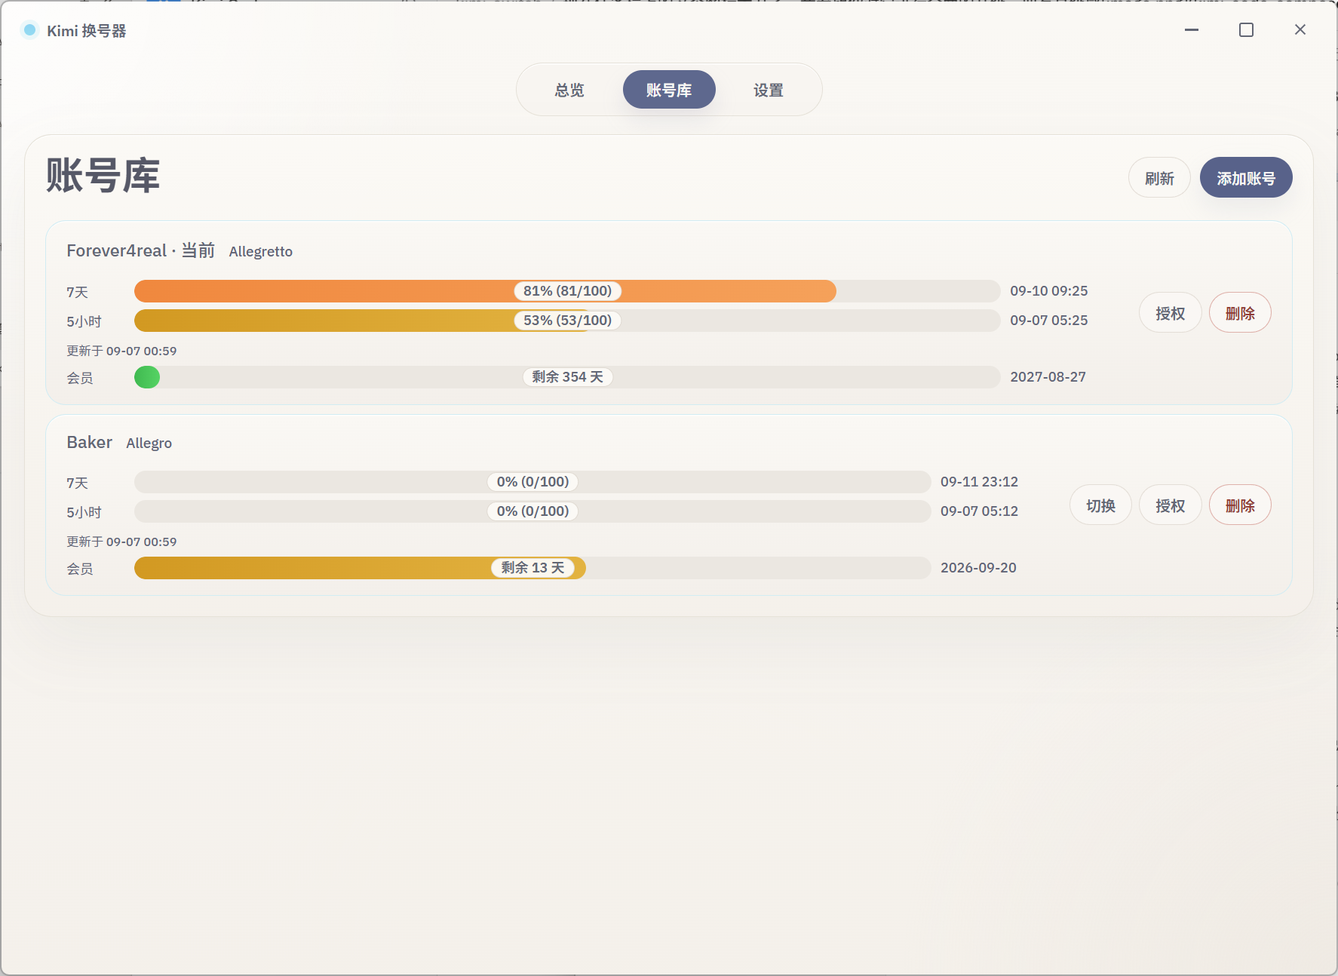
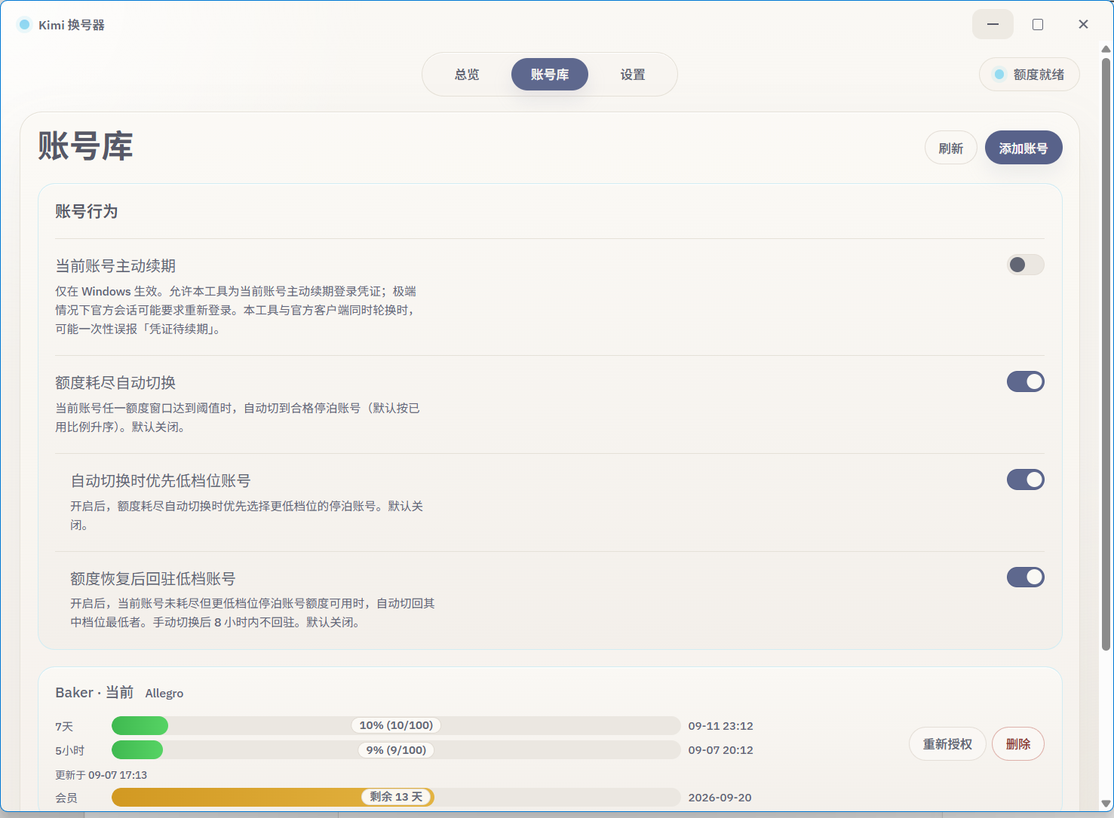
Move account-behavior switches from settings page to library page panel

diff --git a/src-ui/index.html b/src-ui/index.html
@@ -107,6 +107,45 @@
                 </button>
               </div>
             </div>
+            <section class="behavior-panel" aria-labelledby="behavior-panel-title">
+              <h3 class="behavior-panel-title" id="behavior-panel-title">账号行为</h3>
+              <div class="settings-row settings-row--switch">
+                <div class="settings-copy">
+                  <span id="renewal-toggle-label">当前账号主动续期</span>
+                  <p class="settings-note" id="renewal-toggle-note">仅在 Windows 生效。允许本工具为当前账号主动续期登录凭证；极端情况下官方会话可能要求重新登录。本工具与官方客户端同时轮换时，可能一次性误报「凭证待续期」。</p>
+                </div>
+                <button id="renewal-toggle" class="switch" type="button" role="switch" aria-checked="false" aria-labelledby="renewal-toggle-label" aria-describedby="renewal-toggle-note">
+                  <span class="switch-thumb" aria-hidden="true"></span>
+                </button>
+              </div>
+              <div class="settings-row settings-row--switch">
+                <div class="settings-copy">
+                  <span id="auto-swap-toggle-label">额度耗尽自动切换</span>
+                  <p class="settings-note" id="auto-swap-toggle-note">当前账号任一额度窗口达到阈值时，自动切到合格停泊账号（默认按已用比例升序）。默认关闭。</p>
+                </div>
+                <button id="auto-swap-toggle" class="switch" type="button" role="switch" aria-checked="false" aria-labelledby="auto-swap-toggle-label" aria-describedby="auto-swap-toggle-note">
+                  <span class="switch-thumb" aria-hidden="true"></span>
+                </button>
+              </div>
+              <div class="settings-row settings-row--switch settings-row--nested">
+                <div class="settings-copy">
+                  <span id="auto-swap-prefer-lower-tier-toggle-label">自动切换时优先低档位账号</span>
+                  <p class="settings-note" id="auto-swap-prefer-lower-tier-toggle-note">开启后，额度耗尽自动切换时优先选择更低档位的停泊账号。默认关闭。</p>
+                </div>
+                <button id="auto-swap-prefer-lower-tier-toggle" class="switch" type="button" role="switch" aria-checked="false" disabled aria-labelledby="auto-swap-prefer-lower-tier-toggle-label" aria-describedby="auto-swap-prefer-lower-tier-toggle-note">
+                  <span class="switch-thumb" aria-hidden="true"></span>
+                </button>
+              </div>
+              <div class="settings-row settings-row--switch settings-row--nested">
+                <div class="settings-copy">
+                  <span id="auto-swap-resident-lower-tier-toggle-label">额度恢复后回驻低档账号</span>
+                  <p class="settings-note" id="auto-swap-resident-lower-tier-toggle-note">开启后，当前账号未耗尽但更低档位停泊账号额度可用时，自动切回其中档位最低者。手动切换后 8 小时内不回驻。默认关闭。</p>
+                </div>
+                <button id="auto-swap-resident-lower-tier-toggle" class="switch" type="button" role="switch" aria-checked="false" disabled aria-labelledby="auto-swap-resident-lower-tier-toggle-label" aria-describedby="auto-swap-resident-lower-tier-toggle-note">
+                  <span class="switch-thumb" aria-hidden="true"></span>
+                </button>
+              </div>
+            </section>
             <div id="accounts-empty" class="empty-state hidden">暂无账号。用「添加账号」浏览器授权，或先在 Kimi Code 登录后点「导入当前账号」。</div>
             <div id="library-action-error" class="action-retry hidden">
               <p id="library-action-error-text"></p>
@@ -131,42 +170,6 @@
                   深色
                 </button>
               </div>
-            </div>
-            <div class="settings-row settings-row--switch">
-              <div class="settings-copy">
-                <span id="renewal-toggle-label">当前账号主动续期</span>
-                <p class="settings-note" id="renewal-toggle-note">仅在 Windows 生效。允许本工具为当前账号主动续期登录凭证；极端情况下官方会话可能要求重新登录。本工具与官方客户端同时轮换时，可能一次性误报「凭证待续期」。</p>
-              </div>
-              <button id="renewal-toggle" class="switch" type="button" role="switch" aria-checked="false" aria-labelledby="renewal-toggle-label" aria-describedby="renewal-toggle-note">
-                <span class="switch-thumb" aria-hidden="true"></span>
-              </button>
-            </div>
-            <div class="settings-row settings-row--switch">
-              <div class="settings-copy">
-                <span id="auto-swap-toggle-label">额度耗尽自动切换</span>
-                <p class="settings-note" id="auto-swap-toggle-note">当前账号任一额度窗口达到阈值时，自动切到合格停泊账号（默认按已用比例升序）。默认关闭。</p>
-              </div>
-              <button id="auto-swap-toggle" class="switch" type="button" role="switch" aria-checked="false" aria-labelledby="auto-swap-toggle-label" aria-describedby="auto-swap-toggle-note">
-                <span class="switch-thumb" aria-hidden="true"></span>
-              </button>
-            </div>
-            <div class="settings-row settings-row--switch settings-row--nested">
-              <div class="settings-copy">
-                <span id="auto-swap-prefer-lower-tier-toggle-label">自动切换时优先低档位账号</span>
-                <p class="settings-note" id="auto-swap-prefer-lower-tier-toggle-note">开启后，额度耗尽自动切换时优先选择更低档位的停泊账号。默认关闭。</p>
-              </div>
-              <button id="auto-swap-prefer-lower-tier-toggle" class="switch" type="button" role="switch" aria-checked="false" disabled aria-labelledby="auto-swap-prefer-lower-tier-toggle-label" aria-describedby="auto-swap-prefer-lower-tier-toggle-note">
-                <span class="switch-thumb" aria-hidden="true"></span>
-              </button>
-            </div>
-            <div class="settings-row settings-row--switch settings-row--nested">
-              <div class="settings-copy">
-                <span id="auto-swap-resident-lower-tier-toggle-label">额度恢复后回驻低档账号</span>
-                <p class="settings-note" id="auto-swap-resident-lower-tier-toggle-note">开启后，当前账号未耗尽但更低档位停泊账号额度可用时，自动切回其中档位最低者。手动切换后 8 小时内不回驻。默认关闭。</p>
-              </div>
-              <button id="auto-swap-resident-lower-tier-toggle" class="switch" type="button" role="switch" aria-checked="false" disabled aria-labelledby="auto-swap-resident-lower-tier-toggle-label" aria-describedby="auto-swap-resident-lower-tier-toggle-note">
-                <span class="switch-thumb" aria-hidden="true"></span>
-              </button>
             </div>
           </div>
         </section>

diff --git a/src-ui/auto-swap.test.ts b/src-ui/auto-swap.test.ts
@@ -15,7 +15,10 @@ const html = readFileSync(
   join(dirname(fileURLToPath(import.meta.url)), "index.html"),
   "utf8",
 );
-const settingsPage = html.slice(html.indexOf('id="page-settings"'));
+const libraryPage = html.slice(
+  html.indexOf('id="page-library"'),
+  html.indexOf('id="page-settings"'),
+);
 
 describe("autoSwapSwitchView", () => {
   it("开态映射 checked 与开启 toast", () => {
@@ -73,20 +76,20 @@ describe("silentQuotaMessage", () => {
   });
 });
 
-describe("设置页「额度耗尽自动切换」开关（issue #68）", () => {
-  it("开关出现在设置页且默认关", () => {
-    expect(settingsPage).toContain('id="auto-swap-toggle"');
-    expect(settingsPage).toMatch(/id="auto-swap-toggle"[^>]*role="switch"/);
+describe("账号库页「额度耗尽自动切换」开关（issue #68）", () => {
+  it("开关出现在账号库页且默认关", () => {
+    expect(libraryPage).toContain('id="auto-swap-toggle"');
+    expect(libraryPage).toMatch(/id="auto-swap-toggle"[^>]*role="switch"/);
     // 静态首帧即关态；权威值由快照涂刷覆盖。
-    expect(settingsPage).toMatch(/id="auto-swap-toggle"[^>]*aria-checked="false"/);
+    expect(libraryPage).toMatch(/id="auto-swap-toggle"[^>]*aria-checked="false"/);
   });
 
   it("开关旁带阈值切换说明，不写 daemon / 403", () => {
-    expect(settingsPage).toContain("额度耗尽自动切换");
-    expect(settingsPage).toContain("当前账号任一额度窗口达到阈值时，自动切到合格停泊账号（默认按已用比例升序）。默认关闭。");
-    expect(settingsPage).not.toContain("剩余最多");
-    expect(settingsPage).not.toContain("daemon");
-    expect(settingsPage).not.toContain("403");
+    expect(libraryPage).toContain("额度耗尽自动切换");
+    expect(libraryPage).toContain("当前账号任一额度窗口达到阈值时，自动切到合格停泊账号（默认按已用比例升序）。默认关闭。");
+    expect(libraryPage).not.toContain("剩余最多");
+    expect(libraryPage).not.toContain("daemon");
+    expect(libraryPage).not.toContain("403");
   });
 });
 
@@ -118,27 +121,27 @@ describe("autoSwapPreferLowerTierSwitchView", () => {
   });
 });
 
-describe("设置页「自动切换时优先低档位账号」子开关（issue #71）", () => {
+describe("账号库页「自动切换时优先低档位账号」子开关（issue #71）", () => {
   it("紧挨总开关下方，role=switch，静态关且 disabled", () => {
-    expect(settingsPage).toContain('id="auto-swap-prefer-lower-tier-toggle"');
-    expect(settingsPage).toMatch(
+    expect(libraryPage).toContain('id="auto-swap-prefer-lower-tier-toggle"');
+    expect(libraryPage).toMatch(
       /id="auto-swap-prefer-lower-tier-toggle"[^>]*role="switch"/,
     );
-    expect(settingsPage).toMatch(
+    expect(libraryPage).toMatch(
       /id="auto-swap-prefer-lower-tier-toggle"[^>]*aria-checked="false"/,
     );
-    expect(settingsPage).toMatch(
+    expect(libraryPage).toMatch(
       /id="auto-swap-prefer-lower-tier-toggle"[^>]*\sdisabled/,
     );
-    const master = settingsPage.indexOf('id="auto-swap-toggle"');
-    const sub = settingsPage.indexOf('id="auto-swap-prefer-lower-tier-toggle"');
+    const master = libraryPage.indexOf('id="auto-swap-toggle"');
+    const sub = libraryPage.indexOf('id="auto-swap-prefer-lower-tier-toggle"');
     expect(sub).toBeGreaterThan(master);
   });
 
   it("文案为优先低档位，不写套餐或 plan", () => {
-    expect(settingsPage).toContain("自动切换时优先低档位账号");
-    const start = settingsPage.indexOf("auto-swap-prefer-lower-tier");
-    const snippet = settingsPage.slice(start, start + 900);
+    expect(libraryPage).toContain("自动切换时优先低档位账号");
+    const start = libraryPage.indexOf("auto-swap-prefer-lower-tier");
+    const snippet = libraryPage.slice(start, start + 900);
     expect(snippet).not.toContain("套餐");
     expect(snippet).not.toMatch(/\bplan\b/i);
   });
@@ -172,28 +175,28 @@ describe("autoSwapResidentLowerTierSwitchView", () => {
   });
 });
 
-describe("设置页「额度恢复后回驻低档账号」子开关（issue #95）", () => {
+describe("账号库页「额度恢复后回驻低档账号」子开关（issue #95）", () => {
   it("位于优先低档位开关之后，role=switch，静态关且 disabled", () => {
-    expect(settingsPage).toContain('id="auto-swap-resident-lower-tier-toggle"');
-    expect(settingsPage).toMatch(
+    expect(libraryPage).toContain('id="auto-swap-resident-lower-tier-toggle"');
+    expect(libraryPage).toMatch(
       /id="auto-swap-resident-lower-tier-toggle"[^>]*role="switch"/,
     );
-    expect(settingsPage).toMatch(
+    expect(libraryPage).toMatch(
       /id="auto-swap-resident-lower-tier-toggle"[^>]*aria-checked="false"/,
     );
-    expect(settingsPage).toMatch(
+    expect(libraryPage).toMatch(
       /id="auto-swap-resident-lower-tier-toggle"[^>]*\sdisabled/,
     );
-    const prefer = settingsPage.indexOf('id="auto-swap-prefer-lower-tier-toggle"');
-    const resident = settingsPage.indexOf('id="auto-swap-resident-lower-tier-toggle"');
+    const prefer = libraryPage.indexOf('id="auto-swap-prefer-lower-tier-toggle"');
+    const resident = libraryPage.indexOf('id="auto-swap-resident-lower-tier-toggle"');
     expect(resident).toBeGreaterThan(prefer);
   });
 
   it("文案为回驻低档账号并说明保持期，不写套餐或 plan", () => {
-    expect(settingsPage).toContain("额度恢复后回驻低档账号");
-    expect(settingsPage).toContain("手动切换后 8 小时内不回驻");
-    const start = settingsPage.indexOf("auto-swap-resident-lower-tier");
-    const snippet = settingsPage.slice(start, start + 900);
+    expect(libraryPage).toContain("额度恢复后回驻低档账号");
+    expect(libraryPage).toContain("手动切换后 8 小时内不回驻");
+    const start = libraryPage.indexOf("auto-swap-resident-lower-tier");
+    const snippet = libraryPage.slice(start, start + 900);
     expect(snippet).not.toContain("套餐");
     expect(snippet).not.toMatch(/\bplan\b/i);
   });

diff --git a/src-ui/renewal.test.ts b/src-ui/renewal.test.ts
@@ -10,7 +10,10 @@ const html = readFileSync(
   join(dirname(fileURLToPath(import.meta.url)), "index.html"),
   "utf8",
 );
-const settingsPage = html.slice(html.indexOf('id="page-settings"'));
+const libraryPage = html.slice(
+  html.indexOf('id="page-library"'),
+  html.indexOf('id="page-settings"'),
+);
 
 describe("renewalSwitchView", () => {
   it("开态映射 checked 与开启 toast", () => {
@@ -28,17 +31,17 @@ describe("renewalSwitchView", () => {
   });
 });
 
-describe("设置页「当前账号主动续期」开关（issue #42）", () => {
-  it("开关出现在设置页且默认关", () => {
-    expect(settingsPage).toContain('id="renewal-toggle"');
-    expect(settingsPage).toMatch(/role="switch"/);
+describe("账号库页「当前账号主动续期」开关（issue #42）", () => {
+  it("开关出现在账号库页且默认关", () => {
+    expect(libraryPage).toContain('id="renewal-toggle"');
+    expect(libraryPage).toMatch(/role="switch"/);
     // 静态首帧即关态；权威值由快照涂刷覆盖。
-    expect(settingsPage).toMatch(/id="renewal-toggle"[^>]*aria-checked="false"/);
+    expect(libraryPage).toMatch(/id="renewal-toggle"[^>]*aria-checked="false"/);
   });
 
   it("开关旁带 ADR 0003 要求的风险说明", () => {
-    expect(settingsPage).toContain("当前账号主动续期");
-    const note = settingsPage.match(
+    expect(libraryPage).toContain("当前账号主动续期");
+    const note = libraryPage.match(
       /id="renewal-toggle-note"[^>]*>([^<]*)</,
     )?.[1];
     expect(note).toContain("仅在 Windows 生效");

diff --git a/src-ui/styles.css b/src-ui/styles.css
@@ -616,6 +616,24 @@ p {
   gap: 8px;
 }
 
+/* 账号行为面板：与账号卡同级的内嵌分区（细边 + 内高光，不投外阴影，避免卡中卡） */
+.behavior-panel {
+  margin-bottom: 18px;
+  padding: 16px 18px 18px;
+  border: 1px solid var(--border-accent);
+  border-radius: var(--radius-metric);
+  background: var(--profile-background);
+  box-shadow: var(--highlight-inset);
+}
+
+.behavior-panel-title {
+  margin: 0;
+  font-family: var(--font-display);
+  font-size: 1.05rem;
+  font-weight: 600;
+  color: var(--text-strong);
+}
+
 .profiles-grid {
   display: flex;
   flex-direction: column;

diff --git a/README.md b/README.md
@@ -22,8 +22,8 @@ intent: Install and use the Kimi Code account switcher GUI and CLI.
 - **额度可视化**：5 小时 / 7 天双窗口彩色进度条（绿 → 黄 → 橙 → 红），条上直接标注百分比与用量，右侧显示窗口重置时间（如 `09-03 09:25`），附带官网会员档位名（Allegretto、Allegro 等）。窗口可见时静默查询（90 秒）；点「刷新」做用户发起的额度查询（约 5 秒连点不打网；429 / 凭证待续期仍退避），陈旧回退时卡片标注缓存时间。额度告急只看用量窗口已用 ≥ 80%，查询失败不算告急。
 - **会员到期**：绑定网页登录后，额度 stack 底部出现一条与额度条同外形的会员轨道：左「会员」、中「剩余 N 天 / 今天到期 / 已过期 N 天」徽章、右到期日 `YYYY-MM-DD`（东八区，与官网一致）。轨道按真实会员周期画「已度过比例」填充（周期 = 到期日 − 官网订阅的开始日，月付/年付自动区分），颜色随剩余天数绿 → 黄 → 橙 → 红，周期最后一天走满、过期后保持满条；不是用量压力，不计告急。周期起点由绑定/刷新管道写入；老绑定在没有真实起点前按档位近似显示（年档 ≈365 天、月档 ≈30 天），重新绑定后自动切回精确值。未绑定只在档位旁给弱提示；点「刷新」会对已绑定卡重读到期日，失败时轨道仍用缓存日期，按钮改为「重新绑定」，并弹瞬时提示。CLI 列表仍打印「有效期至」。
 - **凭证待续期引导**：当前账号 access token 过期导致的 401 单独标成「凭证待续期」——不算额度告急、不按错误红渲染，并提示恢复路径（在 Kimi CLI 里发条消息，或对这张卡重新授权）。
-- **当前账号主动续期（可选）**：设置页开关，默认关闭、仅 Windows 生效；开启后在查询额度前为当前账号原子轮换登录凭证，不等官方客户端的懒刷新；极端情况下官方会话可能要求重新登录。
-- **额度耗尽自动切换（可选）**：设置页开关，默认关闭。开启后，GUI 窗口开着时每次额度查询完成（含 90 秒静默）会检查当前账号：任一用量窗口已用达到阈值（默认 99%）就自动切到合格停泊账号（默认按已用比例升序），并弹瞬时通知。另有子开关「自动切换时优先低档位账号」「额度恢复后回驻低档账号」，均默认关闭；总开关关闭时子开关置灰可见、不清已选状态。开启「回驻」后，当前账号未耗尽但存在档位严格更低的合格停泊账号时，自动切回其中档位最低者（档位未知的账号不作为回驻目标）；手动切换后 8 小时保持期内不回驻，耗尽被迫切换不受影响；回驻与耗尽切换共用冷却。查询失败、数据未知、凭证待续期不切；刚手动选的号约 60 秒内不会被切走；两次自动切换之间有冷却。工具没在运行时不会切。也可直接改 `config.toml` 的 `[auto_swap]`。CLI 无参列表同样会判定并追加一行英文结果。
+- **当前账号主动续期（可选）**：账号库页顶部「账号行为」面板的开关，默认关闭、仅 Windows 生效；开启后在查询额度前为当前账号原子轮换登录凭证，不等官方客户端的懒刷新；极端情况下官方会话可能要求重新登录。
+- **额度耗尽自动切换（可选）**：账号库页顶部「账号行为」面板的开关，默认关闭。开启后，GUI 窗口开着时每次额度查询完成（含 90 秒静默）会检查当前账号：任一用量窗口已用达到阈值（默认 99%）就自动切到合格停泊账号（默认按已用比例升序），并弹瞬时通知。另有子开关「自动切换时优先低档位账号」「额度恢复后回驻低档账号」，均默认关闭；总开关关闭时子开关置灰可见、不清已选状态。开启「回驻」后，当前账号未耗尽但存在档位严格更低的合格停泊账号时，自动切回其中档位最低者（档位未知的账号不作为回驻目标）；手动切换后 8 小时保持期内不回驻，耗尽被迫切换不受影响；回驻与耗尽切换共用冷却。查询失败、数据未知、凭证待续期不切；刚手动选的号约 60 秒内不会被切走；两次自动切换之间有冷却。工具没在运行时不会切。也可直接改 `config.toml` 的 `[auto_swap]`。CLI 无参列表同样会判定并追加一行英文结果。
 - **账号管理**：官方昵称已知的账号卡片直接显示官网名、无「重命名」入口；昵称未知的账号仍可起别名。删除带确认弹窗。
 - **纸色 / 深色主题**：默认暖纸色，设置里可换成 jade-night 深色。
 - **凭证安全**：token 只保存在本机私有目录（Unix 下 0600 权限），网络请求只发往 Kimi 官方域名（`auth.kimi.com` / `api.kimi.com` / `www.kimi.com`，其中 `www.kimi.com` 仅限绑定网页登录以读取会员到期），零遥测；token 刷新在有官方锁协议的平台（macOS/Linux）与官方客户端用同一套锁协调；Windows 上官方无锁协议，默认不替当前账号续期、不会互相抢刷（可选「主动续期」见上文）。
@@ -64,9 +64,9 @@ npm run tauri build
 | 重命名 | 给尚未缓存官方昵称的账号起别名。昵称已知后卡片显示官网名，不再出现此入口 |
 | 删除 | 从账号库移除（不影响 Kimi Code 当前登录文件） |
 | 刷新 | 用户发起的额度查询，并对已绑定卡重读会员到期：约 5 秒内连点不打网，并提示「刚刚更新过」；超时/网络等可重试失败会再查；429 退避中提示「请求过于频繁，请稍后再试」；凭证待续期 / 401 / 403 不打网、不另弹提示。若已绑定卡会员到期没刷出来，再弹一条普通提示「会员到期未更新：…」（多卡合并成一条），不常驻卡面。启动与静默仍 90 秒，静默不打网页会员接口、不弹这条会员提示。开启「额度耗尽自动切换」时，这次查询完成后也可能自动换号。 |
-| 设置 · 额度耗尽自动切换 | 默认关。开启后额度查询完成即可能自动换号（默认按已用比例升序选合格停泊账号）；关着时行为与未装此功能时一致 |
-| 设置 · 自动切换时优先低档位账号 | 默认关。总开关关闭时置灰可见、不清已选状态。开启后自动切换先按会员档位从低到高，同档再按原排序 |
-| 设置 · 额度恢复后回驻低档账号 | 默认关。总开关关闭时置灰可见、不清已选状态。开启后当前账号未耗尽但存在档位严格更低的合格停泊账号时，自动切回其中档位最低者；手动切换后 8 小时保持期内不回驻，耗尽被迫切换不受影响；与耗尽切换共用冷却 |
+| 账号行为 · 额度耗尽自动切换 | 默认关。开启后额度查询完成即可能自动换号（默认按已用比例升序选合格停泊账号）；关着时行为与未装此功能时一致 |
+| 账号行为 · 自动切换时优先低档位账号 | 默认关。总开关关闭时置灰可见、不清已选状态。开启后自动切换先按会员档位从低到高，同档再按原排序 |
+| 账号行为 · 额度恢复后回驻低档账号 | 默认关。总开关关闭时置灰可见、不清已选状态。开启后当前账号未耗尽但存在档位严格更低的合格停泊账号时，自动切回其中档位最低者；手动切换后 8 小时保持期内不回驻，耗尽被迫切换不受影响；与耗尽切换共用冷却 |
 
 ### 命令行
 
@@ -76,7 +76,7 @@ kimi-switch-cli login kimi      # 导入当前 Kimi Code 已登录账号
 kimi-switch-cli swap <编号或id>  # 切换激活账号
 kimi-switch-cli rm <编号或id>    # 删除账号
 kimi-switch-cli bind-web <编号或id>  # 从 stdin 读网页 token，绑定后列表显示有效期至
-kimi-switch-cli config           # 打印生效设置（只读，与 GUI 设置页同源）
+kimi-switch-cli config           # 打印生效设置（只读，与 GUI 同源）
 ```
 
 GUI 与 CLI 共用同一份账号库和设置，可以混用。
@@ -103,7 +103,7 @@ GUI 与 CLI 共用同一份账号库和设置，可以混用。
 refresh token 有有效期，长期未使用的账号凭证会过期。在账号库对那张卡点「重新授权」重走一次浏览器登录即可救活，无需删除重加。
 
 **当前账号额度查询提示 401，其他账号却正常？**
-当前账号的额度查询直接使用 Kimi Code 当前登录文件里的 access token，它只有约 15 分钟有效期，官方客户端闲置时不会自动续期；本工具默认不替当前账号续期，避免与官方客户端争抢凭证。这种情况会单独标成「凭证待续期」：在 Kimi CLI 里发一条消息（触发官方续期）后重新查询即可恢复；若仍反复 401，再对这张卡点「重新授权」重走登录。Windows 用户也可以在设置里打开「当前账号主动续期」，让工具在查询前自动轮换凭证。
+当前账号的额度查询直接使用 Kimi Code 当前登录文件里的 access token，它只有约 15 分钟有效期，官方客户端闲置时不会自动续期；本工具默认不替当前账号续期，避免与官方客户端争抢凭证。这种情况会单独标成「凭证待续期」：在 Kimi CLI 里发一条消息（触发官方续期）后重新查询即可恢复；若仍反复 401，再对这张卡点「重新授权」重走登录。Windows 用户也可以在账号库页「账号行为」面板打开「当前账号主动续期」，让工具在查询前自动轮换凭证。
 
 **打开「额度耗尽自动切换」后，没开 kimi-switch 也会换号吗？**
 不会。只有 GUI 窗口开着（含 90 秒静默查询），或你跑了 CLI 无参列表时才会判定。手动「切换」始终可用，不依赖额度查询。
